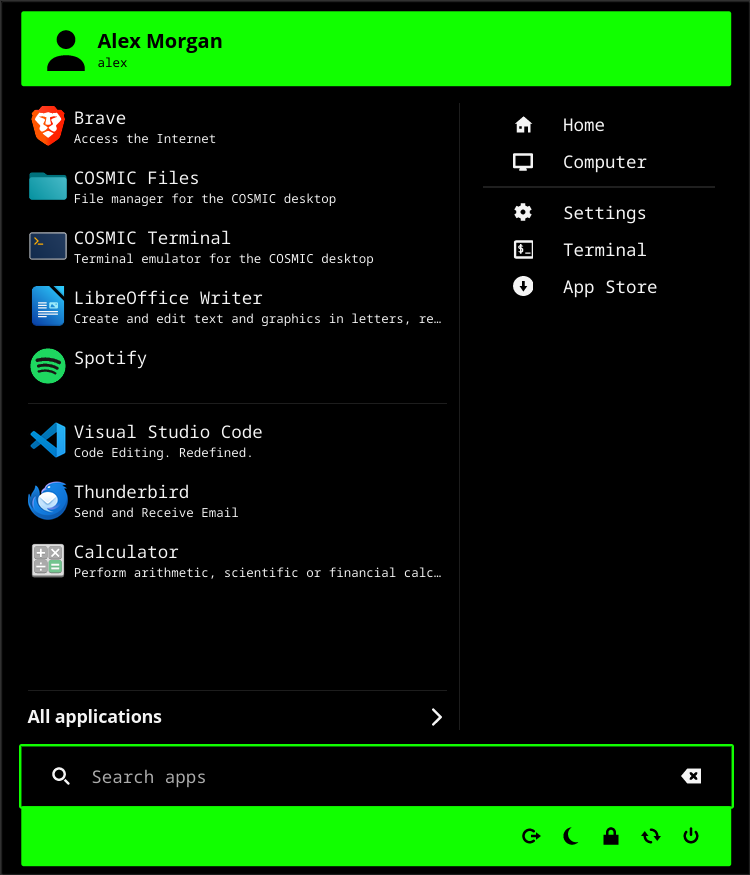
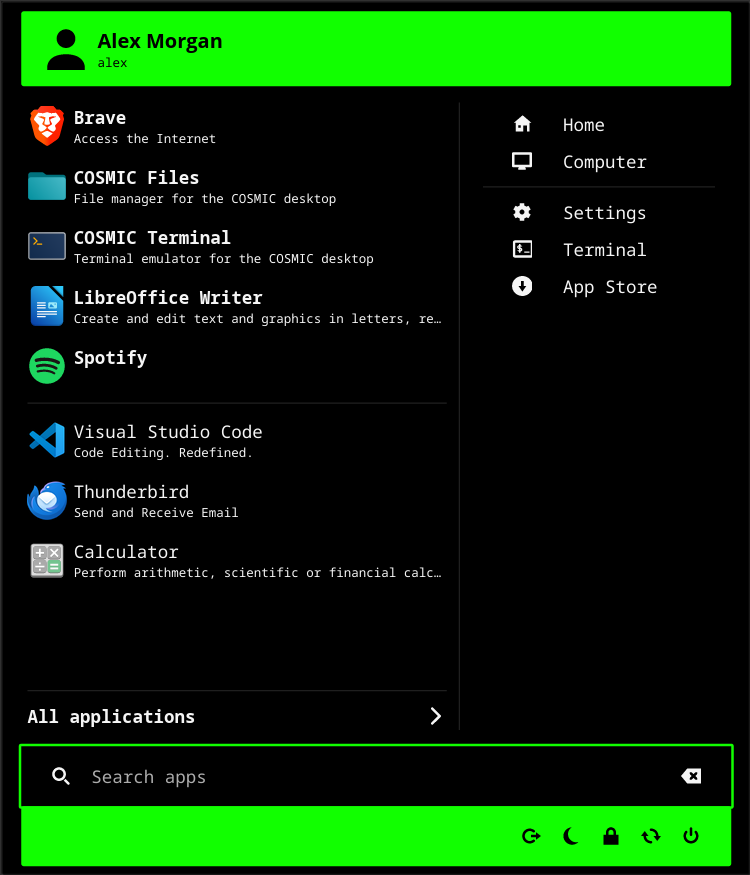
feat: set favorites in bold on the Whistler start page
Favorites on the start page have bold names, apart from the recently
used apps below them. Bold text there and on the page buttons now uses
the theme's interface font, which `Font::default()` does not.

diff --git a/applet/src/widgets/virtualized_app_list.rs b/applet/src/widgets/virtualized_app_list.rs
@@ -80,7 +80,8 @@ impl VirtualizedAppList {
             items.push(Self::create_app_button(
                 applet,
                 original_index,
-                app
+                app,
+                false
             ));
         }
 
@@ -117,10 +118,13 @@ impl VirtualizedAppList {
     ///
     /// # Returns
     /// An element containing a button with context menu
+    /// With `bold`, the app's name is set in bold, e.g. to set favorites
+    /// apart from other apps.
     pub(crate) fn create_app_button<'a>(
         applet: &'a Applet,
         index: usize,
-        app: &'a Arc<ApplicationEntry>
+        app: &'a Arc<ApplicationEntry>,
+        bold: bool,
     ) -> Element<'a, Message> {
         let (icon_size, item_height) = Self::item_metrics(applet.config.column_item_size);
         let description = app
@@ -140,6 +144,12 @@ impl VirtualizedAppList {
                 cosmic::widget::Space::new().width(5).height(Length::Fill),
                 column![
                     text(&app.name)
+                        // In the theme's interface font, unlike `Font::default()`.
+                        .font(if bold {
+                            cosmic::font::bold()
+                        } else {
+                            cosmic::font::default()
+                        })
                         .wrapping(Wrapping::None)
                         .ellipsize(Ellipsize::End(EllipsizeHeightLimit::Lines(1))),
                 ]

diff --git a/applet/src/applet_menu.rs b/applet/src/applet_menu.rs
@@ -661,7 +661,10 @@ impl AppletMenu {
             .available_applications
             .iter()
             .enumerate()
-            .map(|(index, app)| VirtualizedAppList::create_app_button(applet, index, app));
+            // Favorites are set in bold, apart from the recently used apps.
+            .map(|(index, app)| {
+                VirtualizedAppList::create_app_button(applet, index, app, index < favorites)
+            });
         let favorite_rows: Vec<Element<'_, Message>> = rows.by_ref().take(favorites).collect();
         let recent_rows: Vec<Element<'_, Message>> = rows.collect();
 
@@ -715,10 +718,7 @@ impl AppletMenu {
     ) -> cosmic::widget::Button<'static, Message> {
         let Spacing { space_xs, .. } = theme::active().cosmic().spacing;
         let arrow = cosmic::widget::icon::from_name(arrow).size(16).icon();
-        let label = text::body(label).font(Font {
-            weight: cosmic::iced::font::Weight::Bold,
-            ..Default::default()
-        });
+        let label = text::body(label).font(cosmic::font::bold());
 
         let content = if leading {
             row![arrow, label]
